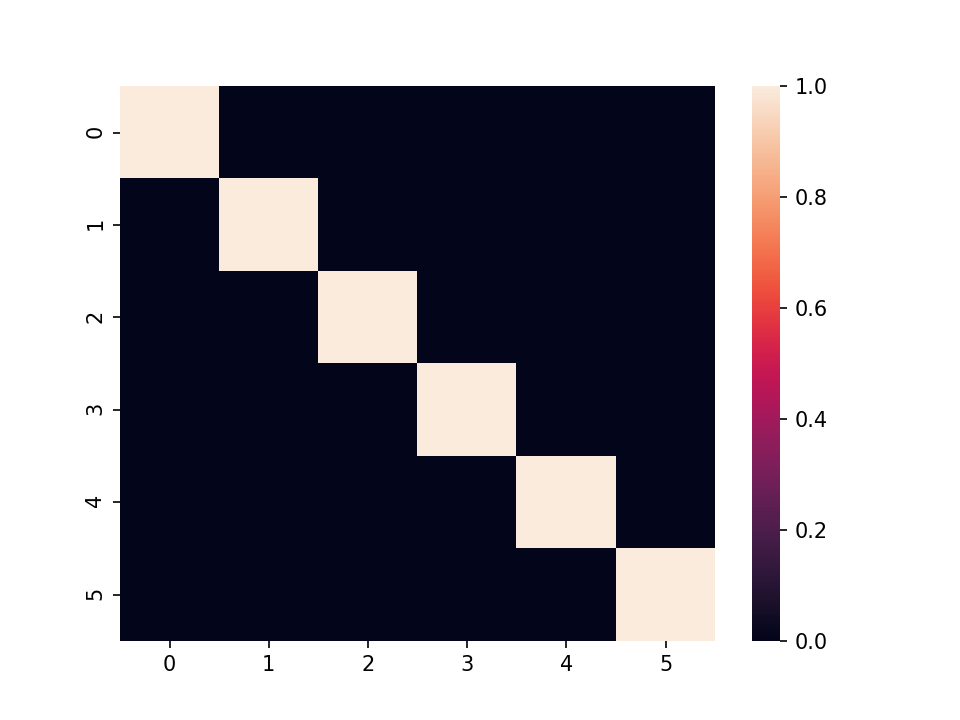
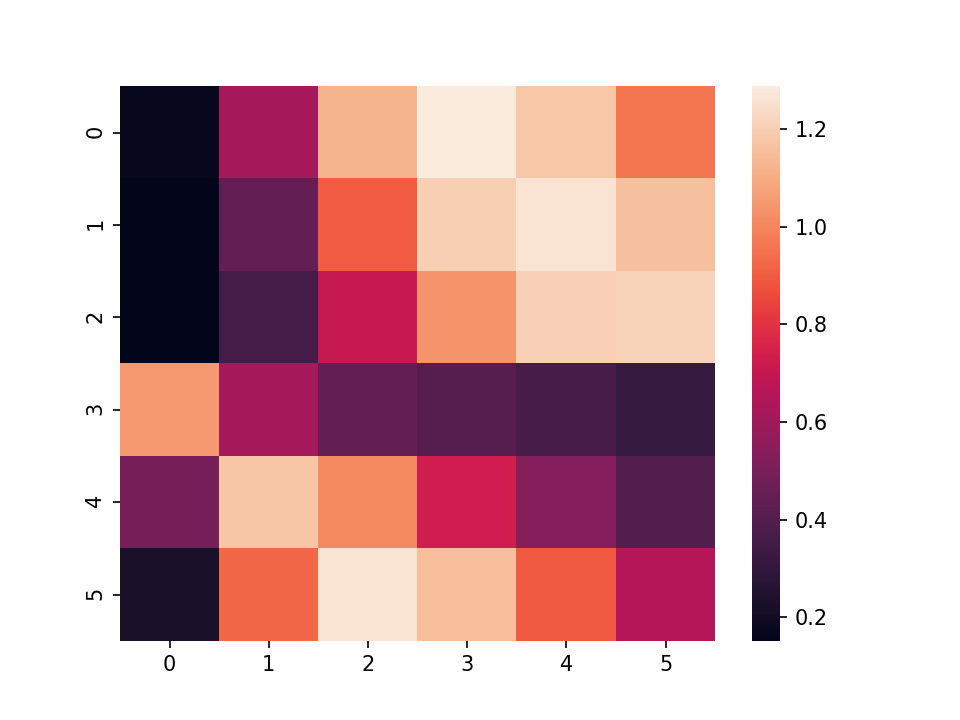
input and rank vectors, readme, plotting

diff --git a/model.py b/model.py
@@ -7,26 +7,47 @@ import logging
 import random
 
 
-class Example:
-    def __init__(self, seq):
-        self.seq = np.array(seq)
-
-        self.item_vectors = np.zeros((self.seq.size, self.seq.max() + 1))
-        self.item_vectors[np.arange(self.seq.size), self.seq] = 1
-
-        self.rank_vectors = np.zeros((self.seq.size, self.seq.size))
-        self.rank_vectors[np.arange(self.seq.size), np.arange(self.seq.size)] = 1
-
-
 class WMModel:
-    def __init__(self, N, R, alpha):
+    """
+    Working Memory Model based on Botvinick and Watanabe
+    """
+
+    class Example:
+        def __init__(self, seq):
+            self.seq = np.array(seq)
+
+    def __init__(self, N, R, alpha, delta, sigma, nu):
         self.N = N
         self.R = R
         self.alpha = alpha
+        self.delta = delta
+        self.sigma = sigma
+        self.nu = nu
         self.hidden = np.zeros((N * R))
         self.weights = np.zeros((N * R, math.factorial(N)))
         self.output = np.zeros(math.factorial(N))
-        self.lookup = [list(x) for x in permutations(range(N))]
+        self.lookup = np.array([list(x) for x in permutations(range(N))])
+
+    def seq_to_example(self, seq):
+        example = self.Example(seq)
+
+        example.item_vectors = np.full(
+            (example.seq.size, example.seq.max() + 1), 1 - self.delta
+        )
+        example.item_vectors[np.arange(example.seq.size), example.seq] = 1
+
+        # self.rank_vectors = np.zeros((self.seq.size, self.seq.size))
+        # self.rank_vectors[np.arange(self.seq.size), np.arange(self.seq.size)] = 1
+
+        example.rank_vectors = []
+        for i in range(example.seq.size):
+            r = np.full(example.seq.size, i + 1)
+            rho = np.arange(example.seq.size) + 1
+            a = np.exp(-np.power(np.log(r) - np.log(rho), 2) / (2 * self.sigma ** 2))
+            example.rank_vectors.append(a)
+        example.rank_vectors = np.array(example.rank_vectors)
+
+        return example
 
     def clear_units(self):
         self.hidden = np.zeros((self.N * self.R))
@@ -37,14 +58,20 @@ class WMModel:
         logging.debug(f"rank input shape: {rank_input.shape}")
         logging.debug(f"rank input shape: {item_input}")
         logging.debug(f"rank input shape: {rank_input}")
+        item_input *= np.random.normal(loc=1, scale=self.nu, size=item_input.shape)
+        rank_input *= np.random.normal(loc=1, scale=self.nu, size=rank_input.shape)
+
         delta_h = np.matmul(item_input.T, rank_input).flatten()
         logging.debug(f"delta_h shape: {delta_h.shape}")
+        logging.debug(f"hidden shape: {self.hidden.shape}")
         self.hidden += delta_h
+        self.hidden *= np.random.normal(loc=1, scale=self.nu, size=self.hidden.shape)
+
         logging.debug(f"weights shape: {self.weights.shape}")
         a = np.matmul(self.hidden.reshape(1, -1), self.weights)
         logging.debug(f"a shape: {a.shape}")
         self.output = np.exp(a) / np.sum(np.exp(a))
-        logging.debug(f"o shape: {self.output.shape}")
+        logging.debug(f"output shape: {self.output.shape}")
         logging.debug(self.output[0, :10])
 
     def backward(self, target):
@@ -54,17 +81,24 @@ class WMModel:
         logging.debug(f"delta w shape: {delta_w.shape}")
         self.weights += delta_w
 
-    def do_one_trial(self, example, target):
+    def do_one_trial(self, seq, target):
+        example = self.seq_to_example(seq)
         logging.debug(f"Example: {example.seq}")
+
         self.clear_units()
         for i in range(example.item_vectors.shape[0]):
             item_vector = example.item_vectors[i, :].reshape(1, -1)
             rank_vector = example.rank_vectors[i, :].reshape(1, -1)
             self.step(item_vector, rank_vector)
         self.backward(target)
-        pred = np.argmax(self.output[0])
-        logging.debug(f"Prediction: {self.lookup[pred]}")
-        return self.lookup[pred]
+
+        result = {}
+        pred_idx = np.argmax(self.output[0])
+        logging.debug(f"Prediction: {self.lookup[pred_idx, :]}")
+        result["pred_idx"] = pred_idx
+        result["pred"] = self.lookup[pred_idx, :]
+        result["pos_acc"] = example.seq == result["pred"]
+        return result
 
     def plot_weights(self):
         plt.clf()
@@ -73,62 +107,78 @@ class WMModel:
         plt.savefig("img/weights.png")
 
     def plot_hidden_units(self, seq):
-        example = Example(seq)
+        example = self.seq_to_example(seq)
         self.clear_units()
         for i in range(example.item_vectors.shape[0]):
             item_vector = example.item_vectors[i, :].reshape(1, -1)
             rank_vector = example.rank_vectors[i, :].reshape(1, -1)
             self.step(item_vector, rank_vector)
+        plt.clf()
         plt.figure(dpi=150)
         p = sns.heatmap(self.hidden.reshape((self.N, self.R)))
         plt.savefig("img/hidden_units.png")
 
 
 def test():
-    model = WMModel(6, 6, 0.001)
+    model = WMModel(6, 6, 0.001, delta=0.5, sigma=0.5, nu=0.09)
 
-    example = Example([0, 1, 2, 3, 4, 5])
+    seq = [0, 1, 2, 3, 4, 5]
     target = np.zeros((1, 720))
     target[0, 0] = 1
-    pred = model.do_one_trial(example, target)
+    result = model.do_one_trial(seq, target)
 
-    example = Example([0, 1, 2, 3, 5, 4])
+    seq = [0, 1, 2, 3, 5, 4]
     target = np.zeros((1, 720))
     target[0, 1] = 1
-    pred = model.do_one_trial(example, target)
+    result = model.do_one_trial(seq, target)
 
 
 def test2():
 
+    model = WMModel(6, 6, 0.001, delta=0.9, sigma=0.5, nu=0.0)
+
     base_seq = [0, 1, 2, 3, 4, 5]
     S = math.factorial(len(base_seq))
 
-    # indices:
+    # indices: for shuffling the input
     idxs = np.arange(S)
     random.shuffle(idxs)
 
-    # examples: all permutations of the sequence
-    examples = np.array([Example(x) for x in permutations(base_seq)])
-    examples = examples[idxs]
+    # sequences: all permutations of the sequence
+    sequences = np.array([list(x) for x in permutations(base_seq)])
+    sequences = sequences[idxs]
 
     # targets: one-hot vectors of length N!
     targets = np.zeros((S, S))
     targets[np.arange(S), np.arange(S)] = 1
     targets = targets[idxs]
 
-    model = WMModel(6, 6, 0.001)
-    n_epochs = 10
+    n_epochs = 100
 
     for epoch in range(n_epochs):
-        for i in range(len(examples)):
-            model.do_one_trial(examples[i], targets[i, :].reshape(1, -1))
+        for i in range(len(sequences)):
+            model.do_one_trial(sequences[i], targets[i, :].reshape(1, -1))
 
-    for i in range(len(examples)):
-        pred = model.do_one_trial(examples[i], targets[i, :].reshape(1, -1))
-        logging.info(f"{examples[i].seq} -> {pred}")
+    pos_accs = []
+    for i in range(len(sequences)):
+        result = model.do_one_trial(sequences[i], targets[i, :].reshape(1, -1))
+        logging.info(f"{sequences[i]} -> {result['pred']}")
+        pos_accs.append(result["pos_acc"])
 
-    model.plot_hidden_units([0, 1, 2, 3, 4, 5])
+    # model.nu = 0.09
+    model.plot_hidden_units([3, 4, 5, 0, 1, 2])
     model.plot_weights()
+
+    pos_accs = np.array(pos_accs).mean(axis=0)
+    logging.info(f"Positional Accuracies: {pos_accs}")
+
+
+def test3():
+    model = WMModel(6, 6, 0.001, delta=0.5, sigma=0.5, nu=0.0)
+    seq = [0, 1, 2, 3, 4, 5]
+    e = model.seq_to_example(seq)
+    logging.info(e.item_vectors)
+    logging.info(e.rank_vectors)
 
 
 if __name__ == "__main__":

diff --git a/README.md b/README.md
@@ -3,6 +3,15 @@ Based on Botvinick and Watanabe (2007)
 
 ## Implementation of Neural Network
 
+- An **example** consists of an item vector (length=N) and a rank vector (length=R), both of them one-hot vectors. 
+    - The item vector indicates the identity of the sequence element being seen by the model. 
+    - The rank vector indicates the position in the sequence of the element being seen by the model. 
+- A **trial** consists of a sequential series of examples being passed into the model, followed by a weight update based on comparing the model's output with the target. 
+
+For example, suppose we have the sequence of items [0, 5, 3, 1, 4, 2]. 
+We start with the first element, item 0 in position 0. This gives us item vector [1, 0, 0, 0, 0, 0] and rank vector [1, 0, 0, 0, 0, 0]. 
+Next, we have item 5 in position 1. This gives us item vector [0, 0, 0, 0, 0, 1] and rank vector [0, 1, 0, 0, 0, 0]. 
+
 ## Results
 
 
